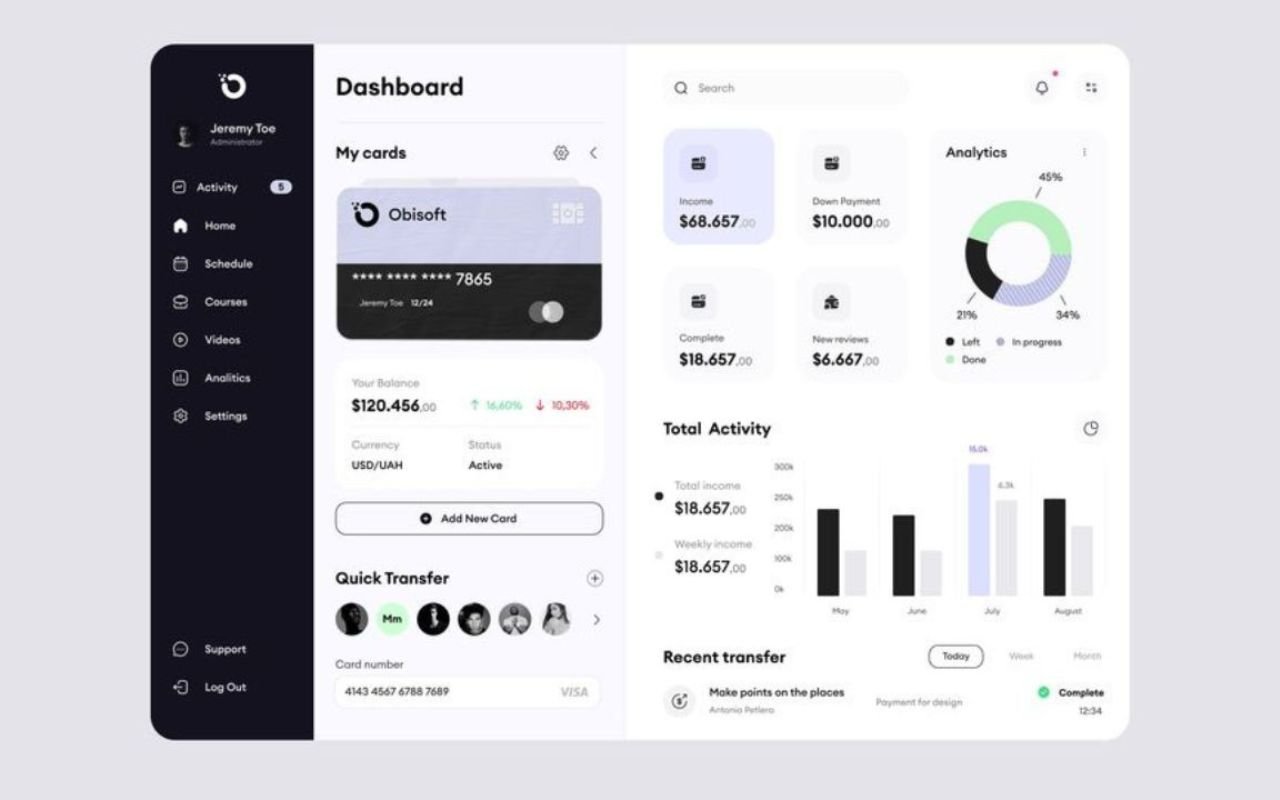
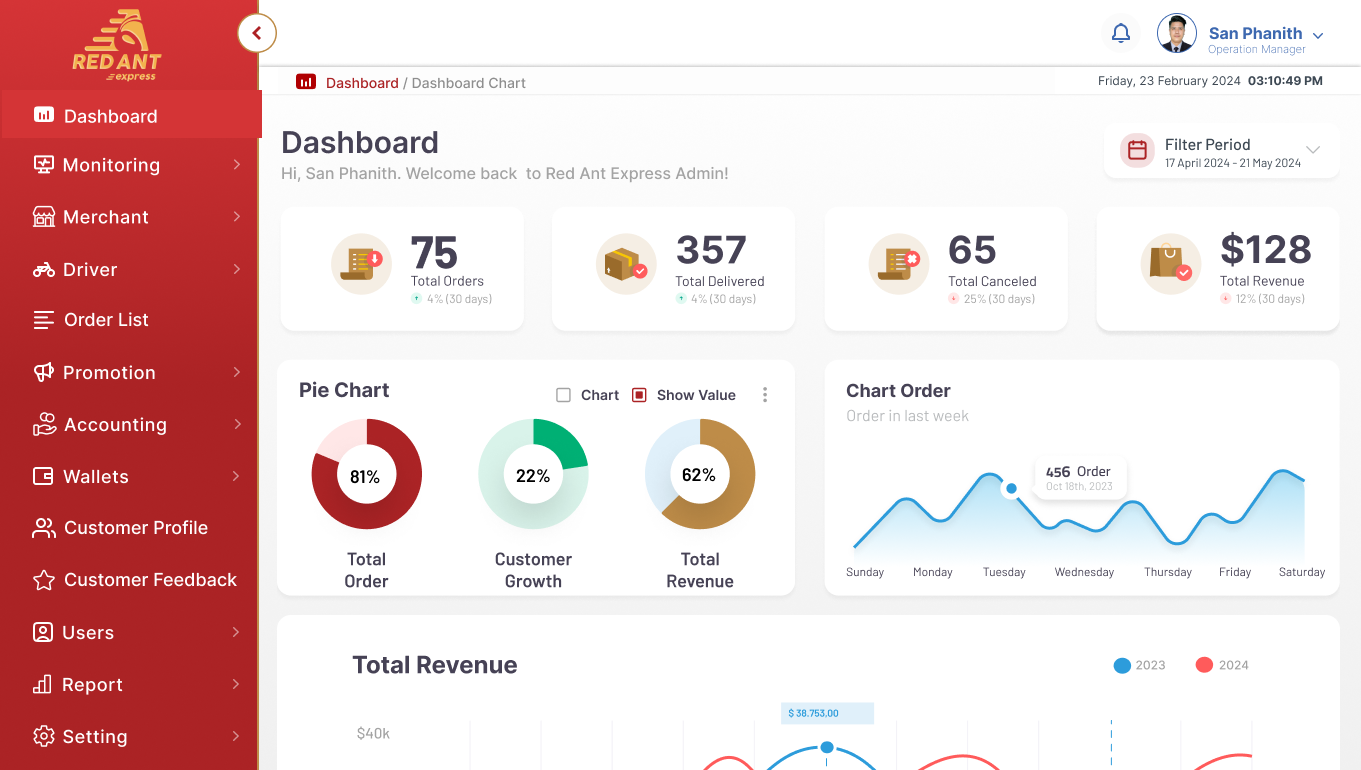
Deploy

diff --git a/src/Components/Navbar/Navbar.jsx b/src/Components/Navbar/Navbar.jsx
@@ -1,79 +1,81 @@
 import { FaBarsStaggered, FaXmark } from "react-icons/fa6";
 import { FaRegMoon } from "react-icons/fa";
-import { FiSun } from "react-icons/fi"
-import React, { useEffect, useState } from 'react'
-import "./Navbar.css"
-
+import { FiSun } from "react-icons/fi";
+import React, { useEffect, useState } from "react";
+import "./Navbar.css";
 
 const Navbar = () => {
-  const [isMenuActive, setISMneuActive] = useState(false);
-  const [theme, setTheme] = useState('dark');
-  useEffect(()=> {
-    document.documentElement.setAttribute('data-theme', theme);
+  const [isMenuActive, setIsMenuActive] = useState(false);
+  const [theme, setTheme] = useState("dark");
+
+  useEffect(() => {
+    document.documentElement.setAttribute("data-theme", theme);
   }, [theme]);
+
   const toggleTheme = () => {
-    setTheme(prev=>(prev === 'dark' ? 'light' : 'dark'));
-  }
+    setTheme((prev) => (prev === "dark" ? "light" : "dark"));
+  };
+
   const toggleMenu = () => {
-    setISMneuActive(!isMenuActive);
-  }
+    setIsMenuActive(!isMenuActive);
+  };
+
+  const handleScroll = (e, id) => {
+    e.preventDefault();
+
+    const el = document.getElementById(id);
+    if (!el) return;
+
+    el.scrollIntoView({ behavior: "smooth" });
+    setIsMenuActive(false); // close mobile menu
+  };
+
   return (
     <header>
       <nav className="flex between wrapper navbar">
-         <a href="#" className='logo'>
-            <span>T</span>Y
-         </a> 
-         {/* DESTOP MENU */}
-         <ul className="flex gap-2 desktop-menu">
-             <li>
-                 <a href="#" className="link">Home</a>
-             </li>
-             <li>
-                 <a href="#" className="link">Service</a>
-             </li>
-             <li>
-                 <a href="#" className="link">About Me</a>
-             </li>
-             <li>
-                 <a href="#" className="link">Testimonials</a>
-             </li>
-             <li>
-                 <a href="#" className="link">Contact Me</a>
-             </li>
-         </ul>
-         <div className="flex gap-2 nav-action">
-             <a onClick={toggleTheme} href="#" className="icon-container border-inverse">
-                {theme === 'dark' ? <FiSun/> : <FaRegMoon />}
-            </a>
-             <a href="#" className="btn">Let's Talk</a>
-             <a href="#" className="hamberger"onClick={toggleMenu}>
-                {isMenuActive ? <FaXmark/> : <FaBarsStaggered /> }
-             </a>
-         </div>
+        <a href="#home" className="logo">
+          <span>T</span>Y
+        </a>
+
+        {/* DESKTOP MENU */}
+        <ul className="flex gap-2 desktop-menu">
+          <li><a href="#home" onClick={(e) => handleScroll(e, "home")} className="link">Home</a></li>
+          <li><a href="#services" onClick={(e) => handleScroll(e, "services")} className="link">Service</a></li>
+          <li><a href="#about" onClick={(e) => handleScroll(e, "about")} className="link">About Me</a></li>
+          <li><a href="#testimonials" onClick={(e) => handleScroll(e, "testimonials")} className="link">Testimonials</a></li>
+          <li><a href="#contact" onClick={(e) => handleScroll(e, "contact")} className="link">Contact Me</a></li>
+        </ul>
+
+        <div className="flex gap-2 nav-action">
+          <button onClick={toggleTheme} className="icon-container border-inverse">
+            {theme === "dark" ? <FiSun /> : <FaRegMoon />}
+          </button>
+
+          <a href="#contact" onClick={(e) => handleScroll(e, "contact")} className="btn">
+            Let's Talk
+          </a>
+
+          <button className="hamberger" onClick={toggleMenu}>
+            {isMenuActive ? <FaXmark /> : <FaBarsStaggered />}
+          </button>
+        </div>
+
         {/* MOBILE MENU */}
-          <ul className={`mobile-menu ${isMenuActive ? 'mobile-menu-active' : null}`}>
-             <li>
-                 <a href="#" className="link">Home</a>
-             </li>
-             <li>
-                 <a href="#" className="link">Service</a>
-             </li>
-             <li>
-                 <a href="#" className="link">About Me</a>
-             </li>
-             <li>
-                 <a href="#" className="link">Testimonials</a>
-             </li>+
-             <li>
-                 <a href="#" className="link">Contact Me</a>
-             </li>
-             <li>
-                <a href="#" className="btn">Let's Talk</a>
-             </li>
-         </ul>
+        <ul className={`mobile-menu ${isMenuActive ? "mobile-menu-active" : ""}`}>
+          <li><a href="#home" onClick={(e) => handleScroll(e, "home")} className="link">Home</a></li>
+          <li><a href="#services" onClick={(e) => handleScroll(e, "services")} className="link">Service</a></li>
+          <li><a href="#about" onClick={(e) => handleScroll(e, "about")} className="link">About Me</a></li>
+          <li><a href="#testimonials" onClick={(e) => handleScroll(e, "testimonials")} className="link">Testimonials</a></li>
+          <li><a href="#contact" onClick={(e) => handleScroll(e, "contact")} className="link">Contact Me</a></li>
+          <li>
+            <a href="#contact" onClick={(e) => handleScroll(e, "contact")} className="btn">
+              Let's Talk
+            </a>
+          </li>
+        </ul>
       </nav>
     </header>
-  )
-}
+  );
+};
 
-export default Navbar
+export default Navbar;

diff --git a/src/Components/animates/cursor.jsx b/src/Components/animates/cursor.jsx
@@ -1,0 +1,41 @@
+import { useEffect } from "react";
+
+const SparkCursor = () => {
+  useEffect(() => {
+    let ticking = false;
+
+    const getRandomTransitionValue = () =>
+      `${Math.random() * 400 - 200}px`;
+
+    const spark = (event) => {
+      if (ticking) return;
+
+      ticking = true;
+
+      requestAnimationFrame(() => {
+        const i = document.createElement("i");
+
+        i.style.left = event.pageX + "px";
+        i.style.top = event.pageY + "px";
+        i.style.scale = `${Math.random() * 2 + 1}`;
+        i.style.setProperty("--x", getRandomTransitionValue());
+        i.style.setProperty("--y", getRandomTransitionValue());
+
+        document.body.appendChild(i);
+
+        setTimeout(() => i.remove(), 2000);
+        ticking = false;
+      });
+    };
+
+    document.addEventListener("mousemove", spark);
+
+    return () => {
+      document.removeEventListener("mousemove", spark);
+    };
+  }, []);
+
+  return null;
+};
+
+export default SparkCursor;

diff --git a/src/Components/Projects/Projects.jsx b/src/Components/Projects/Projects.jsx
@@ -50,23 +50,26 @@ export default Projects
 const ProjectData = [
     {
         id: 1,
-        title: "Smart Financial Dashboard for Digital Management",
+        title: "RED-ANT-MOBILE-ADMIN",
         description: "A modern, user-friendly dashboard for tracking income, expenses, analytics, and card details with quick transfer and activity summaries.",
         image: Project1,
         tech: [
             {
                 id: 1,
-                list: 'React Js'
+                list: 'MySQL Server'
             },
             {
                 id: 2,
-                list: 'Next Js'
+                list: 'Laravel'
             },
             {
                 id: 3,
-                list: 'Vue Js'
+                list: 'JavaScript'
             },
-
+            {
+                id: 4,
+                list: 'Tailwind CSS'
+            },
         ]
     },
     {

diff --git a/src/index.css b/src/index.css
@@ -18,9 +18,32 @@
   --text-secondary-clr: #333;
   --fix-clr: #080808;
 }
+html {
+  scroll-behavior: smooth;
+}
 body{
   background: var(--background-clr);
   overflow-x: hidden;
+}
+i{
+    position: absolute;
+    width: 4px;
+    height: 4px;
+    background: var(--accent-clr);
+    pointer-events: none;
+    animation: animate 2s linear forwards;
+}
+
+@keyframes animate
+{
+    0%{
+        opacity: 1;
+        transform: translate(0, 0);
+    }
+    100%{
+        opacity: 0;
+        transform: translate(var(--x), var(--y));
+    }
 }
 /* Width of scrollbar */
 ::-webkit-scrollbar {

diff --git a/src/App.jsx b/src/App.jsx
@@ -10,6 +10,7 @@ import Plans from './Components/Plans/Plans'
 import Testimonial from './Components/Testimonial/Testimonial'
 import ContactMe from './Components/ContactMe/ContactMe'
 import Footer from './Components/Footer/Footer'
+import SparkCursor from './Components/animates/cursor'
 
 const App = () => {
   return (
@@ -27,6 +28,7 @@ const App = () => {
       <ContactMe/>
       <Headline/>
       <Footer/>
+      <SparkCursor />
     </div>
   )
 }

diff --git a/src/Components/Hero/Hero.jsx b/src/Components/Hero/Hero.jsx
@@ -5,8 +5,8 @@ import "./Hero.css"
 
 const Hero = () => {
   return (
-    <section>
-        <div className='hero-section flex wrapper gap-4'>
+    <section id='home'>
+        <div className='hero-section flex wrapper gap-5'>
             <div className='hero-content'>
                 <span className='sub-text'>Hello there!</span>
                 <h1>

diff --git a/src/Components/ContactMe/ContactMe.jsx b/src/Components/ContactMe/ContactMe.jsx
@@ -8,7 +8,7 @@ import React from 'react'
 
 const ContactMe = () => {
     return (
-        <section>
+        <section id="contact">
             <div className="wrapper p-block-9 border-btm">
                 <div className='text-center'>
                     <span className='sub-text overlay-text middle' datatype='Contact Me'>Contact Me</span>

diff --git a/src/Components/Testimonial/Testimonial.jsx b/src/Components/Testimonial/Testimonial.jsx
@@ -30,7 +30,7 @@ const Testimonial = () => {
         )
     })
   return (
-    <section>
+    <section id="testimonials">
         <div className="wrapper p-block-9 border-btm">
             <div className='text-center'>
                 <span className='sub-text overlay-text middle' datatype='Client Testimonials'>Client Testimonials</span>

diff --git a/src/Components/AboutMe/AboutMe.jsx b/src/Components/AboutMe/AboutMe.jsx
@@ -5,7 +5,7 @@ import "./AboutMe.css"
 
 const AboutMe = () => {
   return (
-    <section>
+    <section id="about">
       <div className="flex gap-5 wrapper p-block-9 border-btm">
           <div className="about-image">
               <img src={AboutImage} alt="" />

diff --git a/src/Components/Services/Services.jsx b/src/Components/Services/Services.jsx
@@ -20,7 +20,7 @@ const Services = () => {
     )
   })
   return (
-    <section>
+    <section id='services'>
       <div className="wrapper p-block-9 border-btm">
         <div className="flex between gap-4">
             <div>

diff --git a/src/Components/Projects/Projects.css b/src/Components/Projects/Projects.css
@@ -22,7 +22,7 @@ h3{
     flex-direction: row-reverse;
 }
 .list{
-    padding: .8rem 2rem;
+    padding: .8rem 1.9rem;
     background: var(--accent-clr);
     color: var(--fix-clr);
     border-radius: 100vw;
